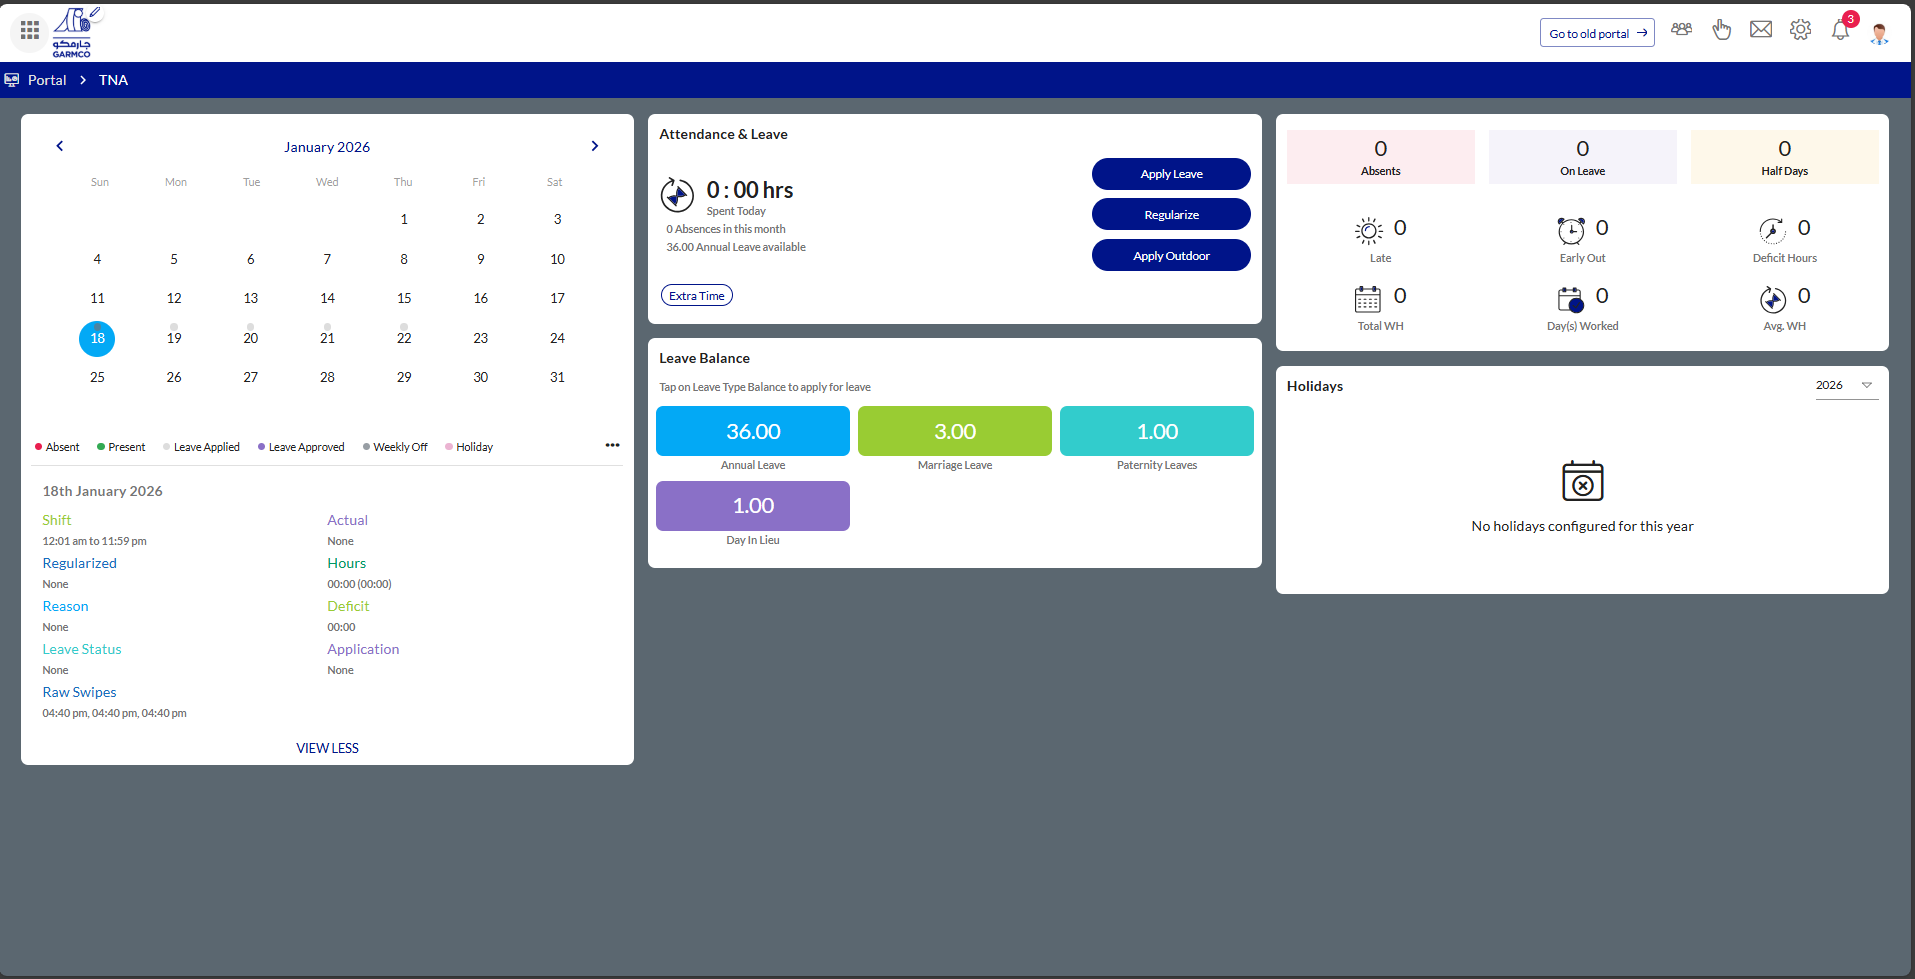
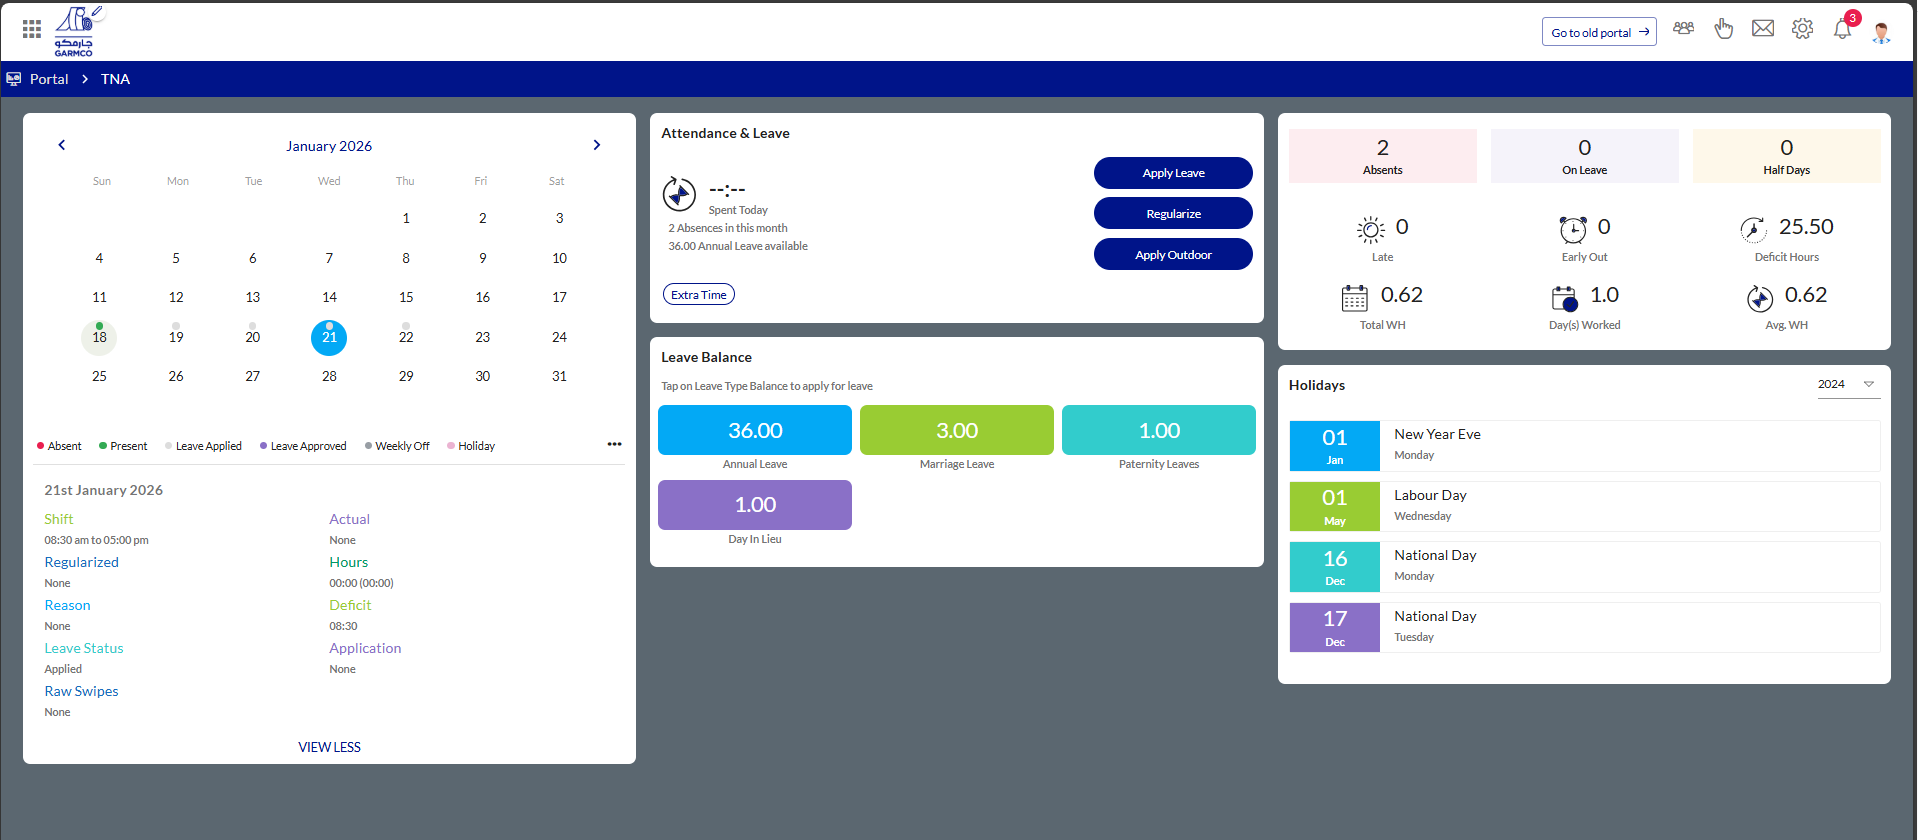
Aded public holidays

diff --git a/KenHRApp.Web/KenHRApp.Web/Components/Pages/TimeAttendance/TNADashboard.razor.cs b/KenHRApp.Web/KenHRApp.Web/Components/Pages/TimeAttendance/TNADashboard.razor.cs
@@ -31,6 +31,9 @@ namespace KenHRApp.Web.Components.Pages.TimeAttendance
         private string _searchString = string.Empty;
         private StringBuilder _errorMessage = new StringBuilder();
         private List<string> _events = new();
+        private int currentPage = 1;
+        private int pageSize = 5;
+        private int pageCount => (int)Math.Ceiling((double)HolidayList.Count / pageSize);
         #endregion
 
         #region Flags
@@ -57,7 +60,13 @@ namespace KenHRApp.Web.Components.Pages.TimeAttendance
             new("Employee Attendance Dashboard", href: null, disabled: true, @Icons.Material.Filled.CalendarMonth)
         ];
 
-        private List<UserDefinedCodeDTO> AttendanceLegends { get; set; } = new List<UserDefinedCodeDTO>();
+        private List<UserDefinedCodeDTO> AttendanceLegends { get; set; } = new();
+        private List<HolidayDTO> HolidayList { get; set; } = new();
+
+        private IEnumerable<HolidayDTO> PagedHolidays =>
+            HolidayList
+                .Skip((currentPage - 1) * pageSize)
+                .Take(pageSize);
         #endregion
 
         #endregion
@@ -84,6 +93,18 @@ namespace KenHRApp.Web.Components.Pages.TimeAttendance
             AttendanceLegends.Add(new UserDefinedCodeDTO() { UDCId = 4, UDCCode = "ALSICKLEAVE", UDCDesc1 = "Sick Leave" });
             AttendanceLegends.Add(new UserDefinedCodeDTO() { UDCId = 4, UDCCode = "ALINJURYLEAVE", UDCDesc1 = "Injury Leave" });
             AttendanceLegends.Add(new UserDefinedCodeDTO() { UDCId = 4, UDCCode = "ALBUSTRIP", UDCDesc1 = "Business Trip" });
+            #endregion
+
+            #region Populate holiday list
+            HolidayList.Add(new HolidayDTO() { HolidayId = 1, HolidayDesc = "New Year Day", HolidayDate = new DateTime(2026, 1, 1) });
+            HolidayList.Add(new HolidayDTO() { HolidayId = 1, HolidayDesc = "Eid Al-Fitr", HolidayDate = new DateTime(2026, 3, 18) });
+            HolidayList.Add(new HolidayDTO() { HolidayId = 1, HolidayDesc = "Eid Al-Fitr", HolidayDate = new DateTime(2026, 3, 19) });
+            HolidayList.Add(new HolidayDTO() { HolidayId = 1, HolidayDesc = "Labour Day", HolidayDate = new DateTime(2026, 5, 3) });
+            HolidayList.Add(new HolidayDTO() { HolidayId = 1, HolidayDesc = "Eid Al-Adha", HolidayDate = new DateTime(2026, 5, 26) });
+            HolidayList.Add(new HolidayDTO() { HolidayId = 1, HolidayDesc = "Eid Al-Adha", HolidayDate = new DateTime(2026, 5, 27) });
+            HolidayList.Add(new HolidayDTO() { HolidayId = 1, HolidayDesc = "Eid Al-Adha", HolidayDate = new DateTime(2026, 5, 28) });
+            HolidayList.Add(new HolidayDTO() { HolidayId = 1, HolidayDesc = "Ashura", HolidayDate = new DateTime(2026, 6, 24) });
+            HolidayList.Add(new HolidayDTO() { HolidayId = 1, HolidayDesc = "National Day", HolidayDate = new DateTime(2026, 12, 16) });
             #endregion
         }
         #endregion
@@ -154,6 +175,11 @@ namespace KenHRApp.Web.Components.Pages.TimeAttendance
                 "ALBUSTRIP" => Color.Tertiary,
                 _ => Color.Default
             };
+        }
+
+        private void OnPageChanged(int page)
+        {
+            currentPage = page;
         }
         #endregion
     }

diff --git a/KenHRApp.Application/DTOs/HolidayDTO.cs b/KenHRApp.Application/DTOs/HolidayDTO.cs
@@ -1,0 +1,26 @@
+using System;
+using System.Collections.Generic;
+using System.ComponentModel.DataAnnotations.Schema;
+using System.Linq;
+using System.Text;
+using System.Threading.Tasks;
+
+namespace KenHRApp.Application.DTOs
+{
+    public class HolidayDTO
+    {
+        #region Properties
+        public int HolidayId { get; set; }
+        public string HolidayDesc { get; set; } = null!;
+        public DateTime HolidayDate { get; set; }
+        #endregion
+
+        #region Not Mapped Properties
+        [NotMapped]
+        public string HolidayDOW { get; set; } = null!;
+
+        [NotMapped]
+        public string HolidayMonth { get; set; } = null!;
+        #endregion
+    }
+}
